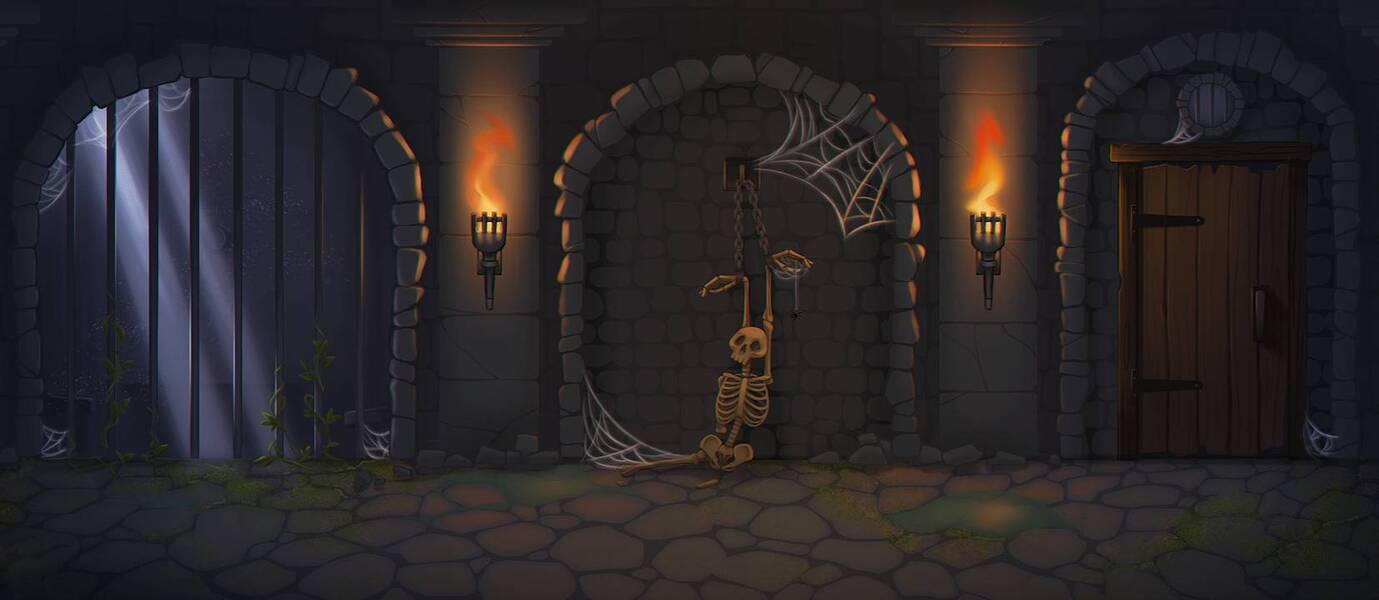
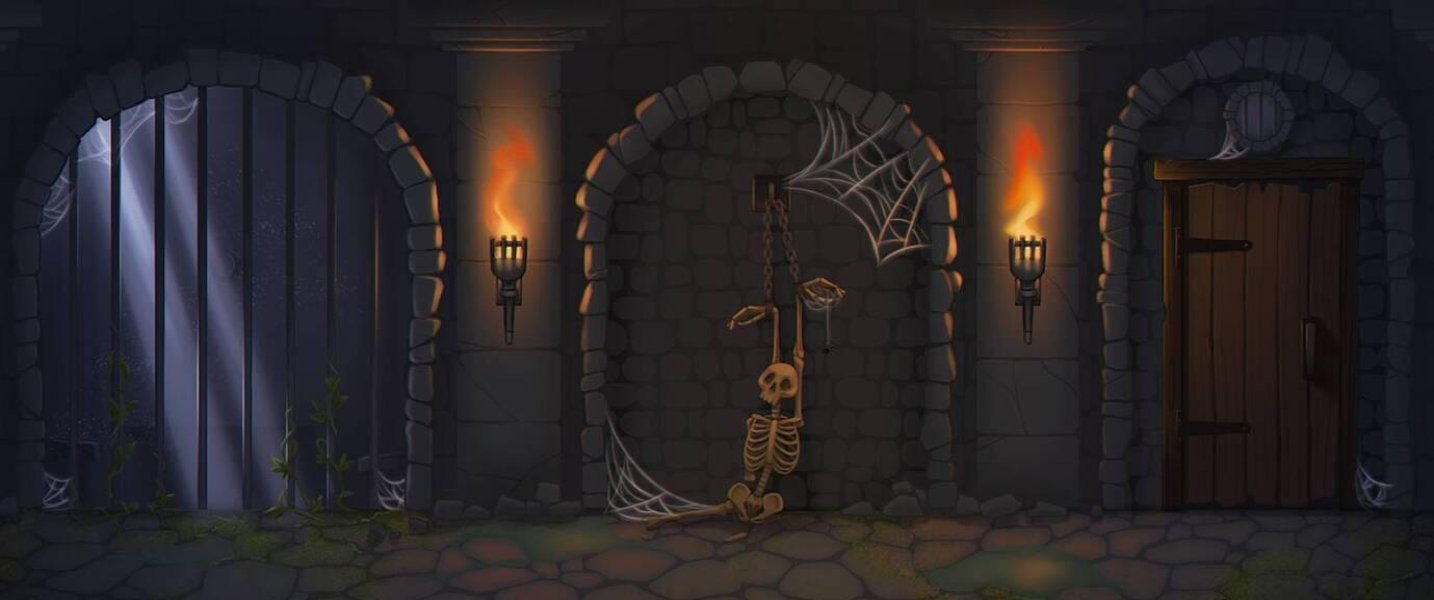
further work etc

diff --git a/js/classes/Levelor.js b/js/classes/Levelor.js
@@ -8,12 +8,27 @@
   playerWidth;
   playerHeight;
   #playerX = 0;
-  #playerY = 500;
+  playerY = 500;
   get playerX() {
     return this.#playerX;
   }
   set playerX(x) {
     this.#playerX = x;
+    this.shouldRedraw = true;
+  }
+
+  // playerBullet
+  playerBulletCooldown = 0;
+  playerBulletSpeed = 0;
+  playerBulletWidth;
+  playerBulletHeight;
+  playerBulletY = 400;
+  #playerBulletX = -1000;
+  get playerBulletX() {
+    return this.#playerBulletX;
+  }
+  set playerBulletX(x) {
+    this.#playerBulletX = x;
     this.shouldRedraw = true;
   }
 
@@ -25,6 +40,7 @@
   needToBeLoadedCount = 0;
   backgroundImage;
   playerImage;
+  playerBulletImage;
 
   // background, position, etc.
   mapEndX;
@@ -42,6 +58,7 @@
 
     this.requestImage('backgroundImage', options.backgroundSrc);
     this.requestImage('playerImage', 'player.png');
+    this.requestImage('playerBulletImage', 'dagger.png');
 
     this.loadIntervalId = setInterval(() => this.checkResourcesLoaded(), 100);
   }
@@ -64,13 +81,19 @@
 
     this.playerWidth = this.playerImage.naturalWidth;
     this.playerHeight = this.playerImage.naturalHeight;
-    this.#playerY = canvasor.height - this.playerImage.naturalHeight;
+    this.playerY = canvasor.height - this.playerImage.naturalHeight;
+
+    this.playerBulletWidth = this.playerBulletImage.naturalWidth;
+    this.playerBulletHeight = this.playerBulletImage.naturalHeight;
+    this.playerBulletY = canvasor.height -
+      this.playerBulletImage.naturalHeight - this.playerImage.naturalHeight / 2;
 
     this.shouldRedraw = true;
     this.draw();
   }
 
   playerLogic() {
+    // movement
     if(interactor.isPressed('a') || interactor.isPressed('ArrowLeft')) {
       this.playerX -= this.playerSpeed;
       this.playerDirection = 'left';
@@ -80,7 +103,6 @@
       this.playerX += this.playerSpeed;
       this.playerDirection = 'right';
     }
-
 
     if(this.playerX < 0)
       this.playerX = 0;
@@ -97,6 +119,36 @@
         this.translateOffsetX = checkTranslate;
     }
 
+
+    // attack
+    if(
+        this.playerBulletCooldown <= 0 && 
+        (interactor.isPressed(' ') || interactor.isPressedMouse())
+      )
+        this.playerAttack();
+  }
+
+  playerAttack() {
+    this.playerBulletCooldown = 36;
+    this.playerBulletSpeed = this.playerSpeed * 3;
+
+    if(this.playerDirection === 'right')
+      this.playerBulletX = this.playerX + this.playerWidth;
+    else {
+      this.playerBulletX = this.playerX - this.playerBulletWidth;
+      this.playerBulletSpeed *= -1;
+    }
+  }
+
+  playerBulletLogic() {
+    if(this.playerBulletCooldown <= 0)
+      return;
+
+    this.playerBulletX += this.playerBulletSpeed;
+    this.playerBulletCooldown--;
+
+    if(this.playerBulletCooldown <= 0)
+      this.playerBulletX = -1000;
   }
 
   draw() {
@@ -114,6 +166,8 @@
 
     this.drawPlayer();
     
+    this.drawPlayerBullet();
+
     canvasor.ctx.restore();
   }
 
@@ -127,13 +181,23 @@
   }
 
   drawPlayer() {
-    if(this.playerDirection === 'left')
-      this.mirrorImage(this.playerImage, this.playerX, this.#playerY, true);
+    if(this.playerDirection === 'right')
+      canvasor.ctx.drawImage(this.playerImage, this.playerX, this.playerY);
     else
-      canvasor.ctx.drawImage(this.playerImage, this.playerX, this.#playerY);
+      this.mirrorImage(this.playerImage, this.playerX, this.playerY, true);      
 
     canvasor.ctx.strokeStyle = 'red';
-    canvasor.ctx.strokeRect(this.playerX, this.#playerY, this.playerImage.naturalWidth, this.playerImage.naturalHeight);
+    canvasor.ctx.strokeRect(this.playerX, this.playerY, this.playerWidth, this.playerHeight);
+  }
+
+  drawPlayerBullet() {
+    if(this.playerBulletSpeed > 0)
+      canvasor.ctx.drawImage(this.playerBulletImage, this.playerBulletX, this.playerBulletY);
+    else if(this.playerBulletSpeed < 0)
+      this.mirrorImage(this.playerBulletImage, this.playerBulletX, this.playerBulletY, true);
+
+    canvasor.ctx.strokeStyle = 'red';
+    canvasor.ctx.strokeRect(this.playerBulletX, this.playerBulletY, this.playerBulletWidth,  this.playerBulletHeight);
   }
 
   mirrorImage(image, x = 0, y = 0, horizontal = false, vertical = false) {
@@ -151,6 +215,7 @@
 
   gameLoopIteration() {
     this.playerLogic();
+    this.playerBulletLogic();
     this.draw();
   }
 

diff --git a/js/classes/Interactor.js b/js/classes/Interactor.js
@@ -14,9 +14,32 @@ const interactor = {
 
   isPressed(key) {
     return this.pressedKeys.has(key);
+  },
+
+  pressedMouseButtons: new Set(),
+  removeMouseButtonTimeoutId: 'gdsgsd',
+
+  mouseDown(e) {
+    clearTimeout(this.removeMouseButtonTimeoutId);
+    this.pressedMouseButtons.add(e.button);
+  },
+
+  mouseUp(e) {
+    clearTimeout(this.removeMouseButtonTimeoutId);
+    this.removeMouseButtonTimeoutId = setTimeout(
+      () => {
+        this.pressedMouseButtons.delete(e.button);
+      }, 50
+    );
+  },
+
+  isPressedMouse(button = 0) {
+    return this.pressedMouseButtons.has(button);
   }
 
 };
 
 window.addEventListener('keydown', (e) => interactor.keyDown(e));
 window.addEventListener('keyup', (e) => interactor.keyUp(e));
+window.addEventListener('mousedown', (e) => interactor.mouseDown(e));
+window.addEventListener('mouseup', (e) => interactor.mouseUp(e));

diff --git a/js/main.js b/js/main.js
@@ -1,7 +1,7 @@
 'use strict';
 
 let levelor = new Levelor({
-  backgroundSrc: 'dungeon.jpg',
+  backgroundSrc: 'village.jpg',
   levelSize: 10
 });
 
